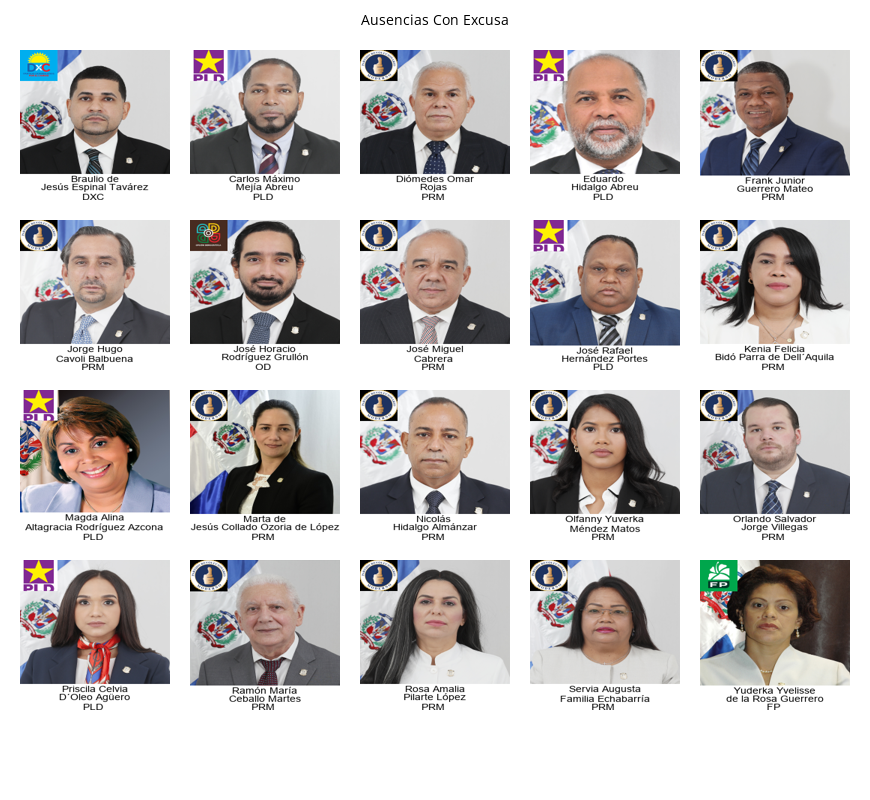
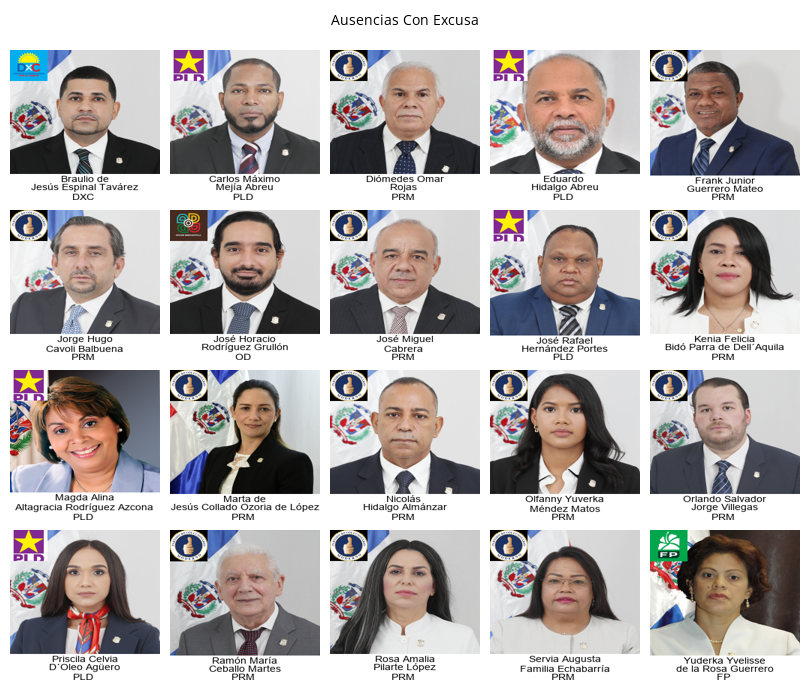
update independent

diff --git a/imggen.py b/imggen.py
@@ -37,7 +37,7 @@ result_excusa = [item for item in results[0]['asistencia'] if not item['presente
 def create_image_with_photos(legislators, folder_path, file_name,asistenciaType):
     photos_per_row = 5
     photo_size = 150  # Assuming each photo is 150x150 pixels
-    spacing = 20
+    spacing = 10
     font_path = "OpenSans-Regular.ttf"
     font_size = 14
     font = ImageFont.truetype(font_path, font_size)
@@ -45,7 +45,7 @@ def create_image_with_photos(legislators, folder_path, file_name,asistenciaType)
     # Calculate dimensions for the image
     rows = (len(legislators) + photos_per_row - 1) // photos_per_row
     image_width = photos_per_row * (photo_size + spacing) + spacing
-    image_height = rows * (photo_size + spacing) + spacing + 100  # Extra space for title and names
+    image_height = rows * (photo_size + spacing) + spacing + 50  # Extra space for title and names
     
     # Create a new blank image with white background
     background_color = (255, 255, 255)
